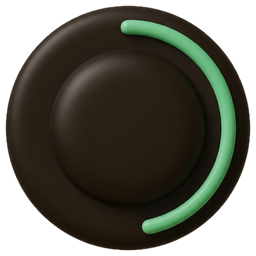
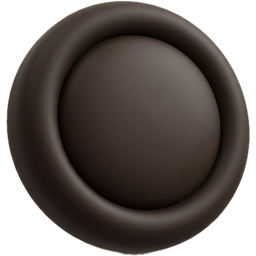
Art: AI-account tokens without the gauge-like ring
The ring read as an allowance meter while showing no number (放心: never imply data we don't have).
Regenerated both tokens plain (prompts updated, v1 kept in raw/v1), re-cut with Vision.

diff --git a/docs/art/assets/prompts/token_orange.md b/docs/art/assets/prompts/token_orange.md
@@ -1,1 +1,1 @@
-A thick round puffy token like a soft clay coin in orange #FF7A2E, with a raised smooth center, and a thin mint ring partially around its edge (about two thirds).
+A thick round puffy token like a soft clay coin in orange #FF7A2E, with a raised smooth domed center and a soft rounded rim. Completely plain: NO ring, NO arc, NO stripe, NO gauge, NO marks around the edge — one solid colour all the way round, like a squishy button.

diff --git a/docs/art/assets/prompts/token_ink.md b/docs/art/assets/prompts/token_ink.md
@@ -1,1 +1,1 @@
-A thick round puffy token like a soft clay coin in ink #2B2118, with a raised smooth center, and a thin mint ring partially around its edge (about half).
+A thick round puffy token like a soft clay coin in ink #2B2118, with a raised smooth domed center and a soft rounded rim. Completely plain: NO ring, NO arc, NO stripe, NO gauge, NO marks around the edge — one solid colour all the way round, like a squishy button.
